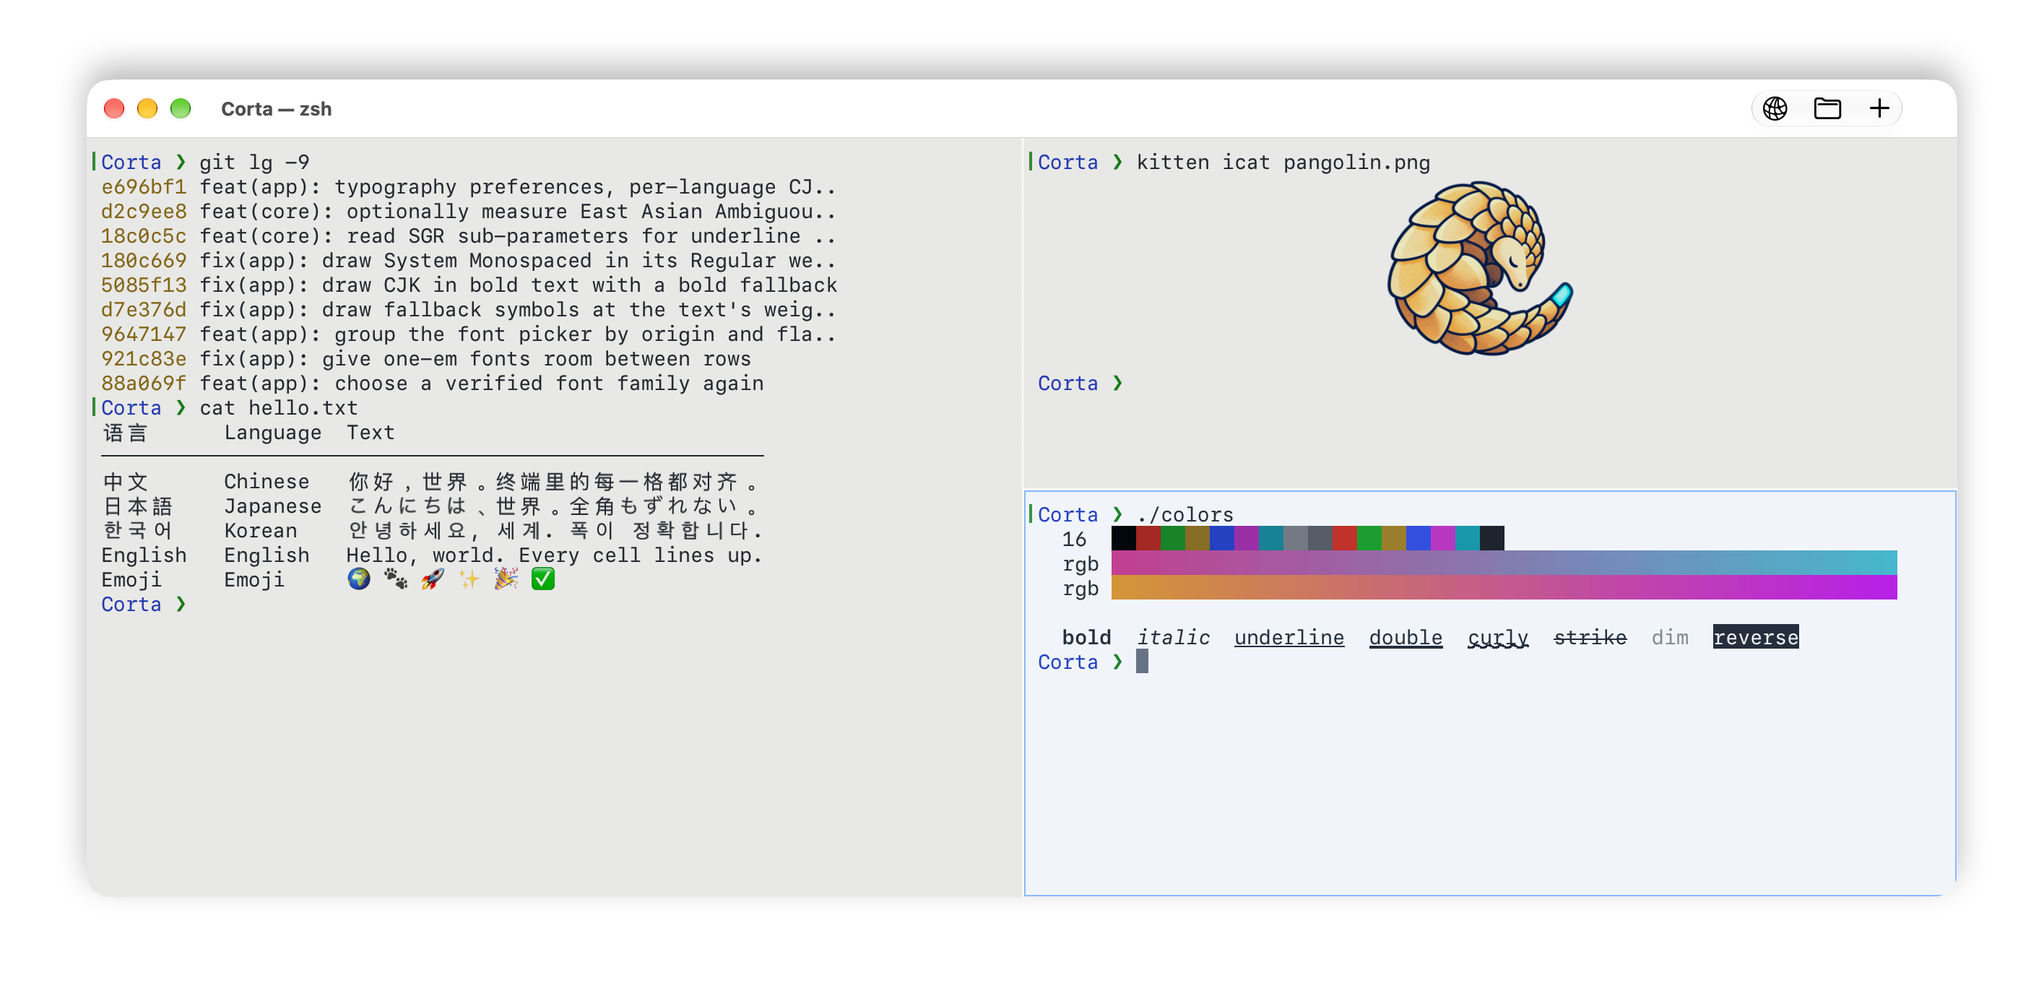
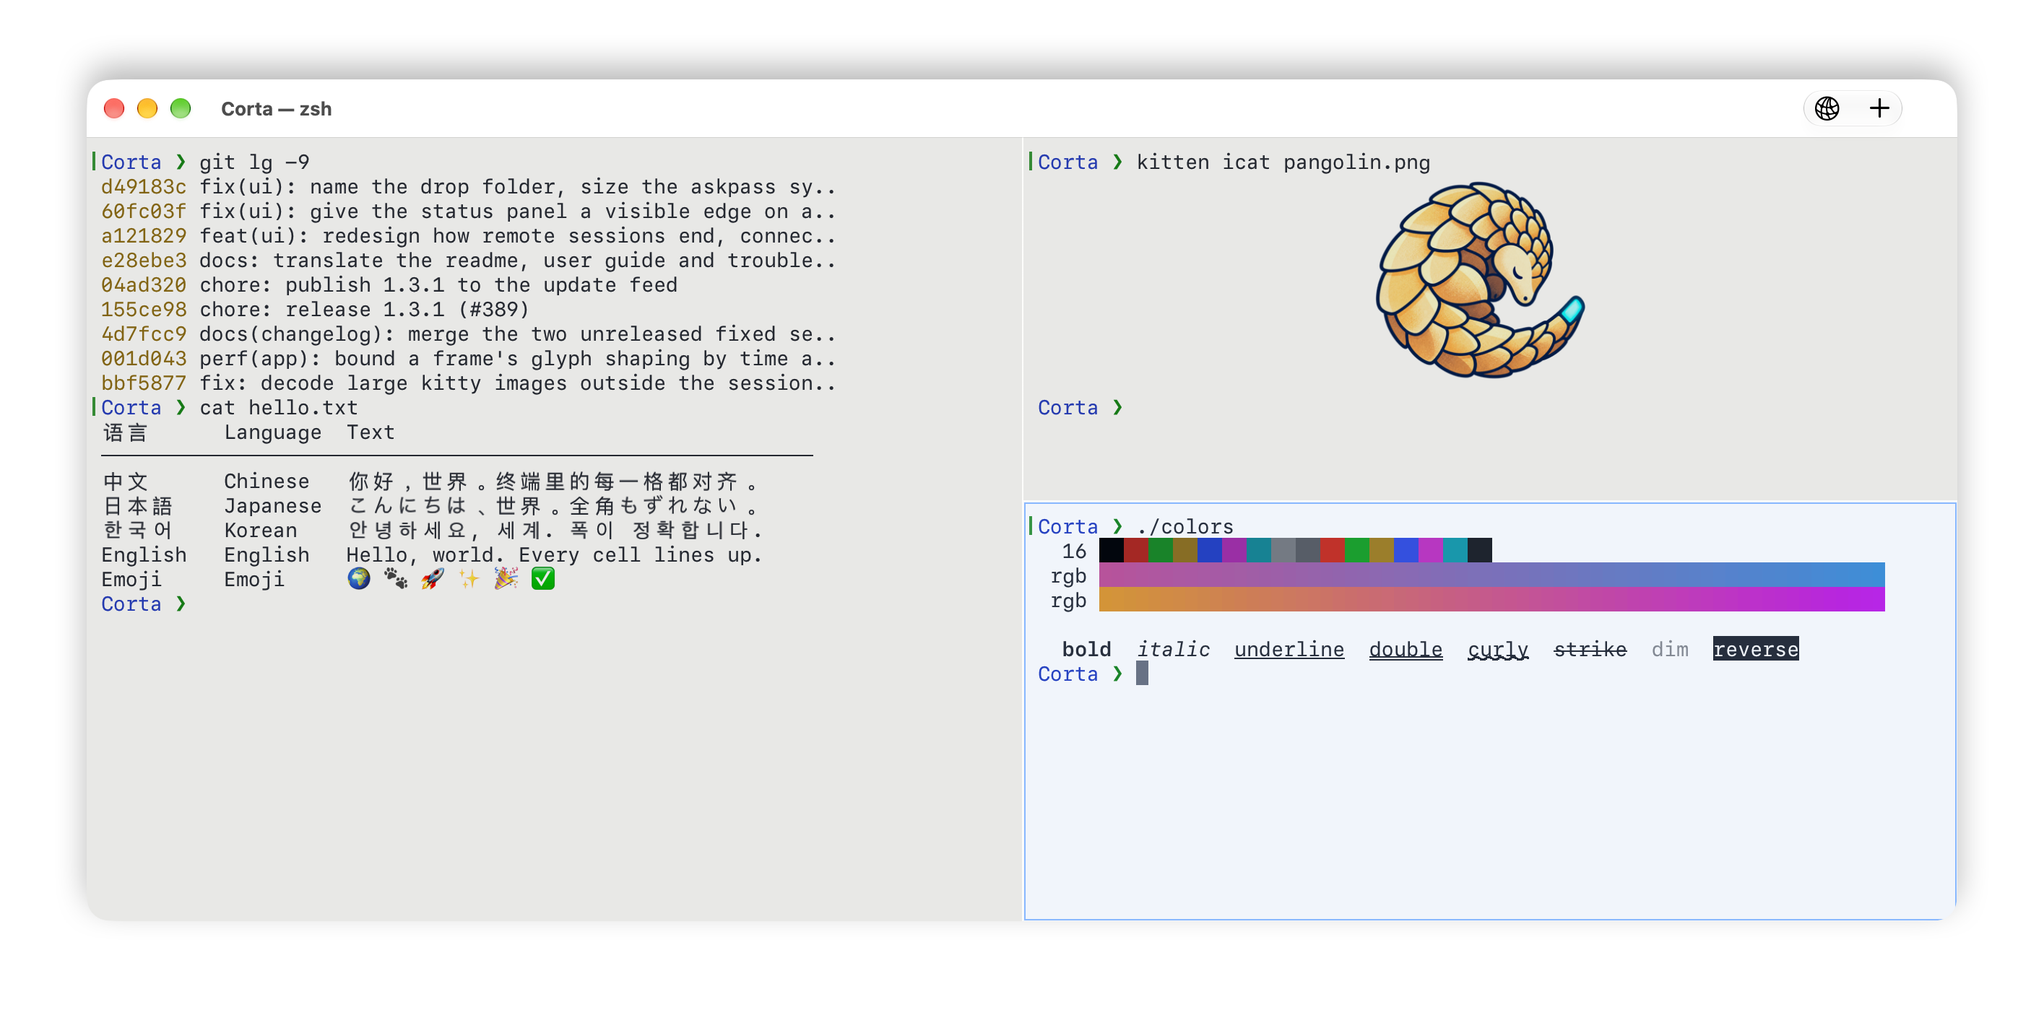
fix(ui): address review findings and retake the toolbar screenshots
Return no longer reconnects a failed pane; a failed pane takes clicks so
keys never reach a terminal nobody reads; a refused key passphrase skips
the key instead of ending the connection; an empty host opens the pane's
files only in Files mode; the established-connection timer stops with
its pane; the details group keeps the button spacing; one cached date
formatter; `ssh -l user` names the user; the unnamed-program title is
localized. The README, directory-suggestion and input-source images no
longer show the removed Files button.

diff --git a/Corta/Remote/SSHAskpassPrompter.swift b/Corta/Remote/SSHAskpassPrompter.swift
@@ -26,6 +26,8 @@ enum SSHAskpassPrompter {
     /// Posted with the host (`SSHTarget.displayName`) when a password is
     /// refused: the broker ends that connection's ssh, and a window waiting
     /// on it goes back to its host field rather than reporting a failure.
+    /// Two windows to the same place with different keys share the name and
+    /// both go back — rare, and Connect is one click away.
     static let refusedNotification = Notification.Name("CortaSSHAskpassRefused")
 
     /// Nil is a refusal. Task cancellation — ssh no longer waiting — takes
@@ -33,9 +35,14 @@ enum SSHAskpassPrompter {
     static func ask(_ question: SSHAskpass.Question, host: String, prompt: String) async -> String? {
         // With every window closed — a remote-edit save reconnecting — the
         // question gets a window of its own rather than a silent refusal.
+        let endsConnection = question == .secret && SSHAskpass.refusalEndsConnection(kind: .secret, prompt: prompt)
         let found = window(for: host)
         let standalone = found == nil ? makeStandaloneWindow() : nil
-        guard let window = found ?? standalone else { return nil }
+        guard let window = found ?? standalone else {
+            // Refused unasked: the broker still ends the connection.
+            if endsConnection { NotificationCenter.default.post(name: refusedNotification, object: host) }
+            return nil
+        }
         defer { standalone?.close() }
         // In the background the sheet is out of sight: bounce until the
         // user comes, and stop once the question is gone.
@@ -44,7 +51,7 @@ enum SSHAskpassPrompter {
         let alert = makeAlert(question, host: host, prompt: prompt)
         let field = alert.accessoryView as? NSSecureTextField
         let answer = await answer(alert, field: field, question: question, on: window)
-        if question == .secret, answer == nil, !Task.isCancelled {
+        if endsConnection, answer == nil, !Task.isCancelled {
             NotificationCenter.default.post(name: refusedNotification, object: host)
         }
         return answer
@@ -123,8 +130,11 @@ enum SSHAskpassPrompter {
             alert.messageText = L10n.format("askpass.secret.title", host)
             alert.informativeText = "“\(prompt)” · " + L10n.text("askpass.source.short")
             alert.addButton(withTitle: L10n.text("askpass.continue"))
-            // Cancel ends the connection (the broker), so it says so.
-            alert.addButton(withTitle: L10n.text("askpass.cancelConnection"))
+            // Cancel ends the connection (the broker), so it says so; for a
+            // key's passphrase it only skips that key.
+            alert.addButton(withTitle: L10n.text(
+                SSHAskpass.refusalEndsConnection(kind: .secret, prompt: prompt)
+                    ? "askpass.cancelConnection" : "common.cancel"))
             let field = NSSecureTextField(frame: NSRect(x: 0, y: 0, width: 280, height: 24))
             field.placeholderString = placeholder(for: prompt)
             field.setAccessibilityIdentifier("askpass-answer")

diff --git a/Corta/Pane/PaneRemote.swift b/Corta/Pane/PaneRemote.swift
@@ -158,10 +158,12 @@ final class PaneRemote: NSObject, NSMenuItemValidation {
     }
 
     /// ssh's destination: the first word that is neither an option nor an
-    /// option's value (`ssh(1)`'s synopsis), `ssh://` and a port stripped.
+    /// option's value (`ssh(1)`'s synopsis), `ssh://` and a port stripped, and
+    /// `-l`'s user put in front when it names none of its own.
     nonisolated static func sshDestination(_ arguments: [String]) -> String? {
         // The options that take a value, as one letter each.
         let valued = Set("BbcDEeFIiJLlmOoPpQRSWw")
+        var user: String?
         var index = arguments.startIndex
         while index < arguments.endIndex {
             let word = arguments[index]
@@ -174,7 +176,11 @@ final class PaneRemote: NSObject, NSMenuItemValidation {
             let letters = word.dropFirst()
             if let at = letters.firstIndex(where: { valued.contains($0) }) {
                 // `-p22`: the value is attached; `-p 22`: it is the next word.
-                if letters.index(after: at) == letters.endIndex { index += 1 }
+                let attached = String(letters[letters.index(after: at)...])
+                if attached.isEmpty { index += 1 }
+                if letters[at] == "l" {
+                    user = attached.isEmpty ? (index < arguments.endIndex ? arguments[index] : nil) : attached
+                }
             }
             index += 1
         }
@@ -187,7 +193,9 @@ final class PaneRemote: NSObject, NSMenuItemValidation {
                 destination = String(destination[..<colon])
             }
         }
-        return destination.isEmpty ? nil : destination
+        guard !destination.isEmpty else { return nil }
+        if let user, !destination.contains("@") { destination = "\(user)@\(destination)" }
+        return destination
     }
 
     private var establishedWatch: Timer?
@@ -202,7 +210,12 @@ final class PaneRemote: NSObject, NSMenuItemValidation {
         establishedWatch?.invalidate()
         establishedWatch = nil
         guard let target = host?.preset?.connectTarget, let session = host?.session else { return }
-        establishedWatch = Timer.scheduledTimer(withTimeInterval: 1, repeats: true) { [weak self, weak session] _ in
+        establishedWatch = Timer.scheduledTimer(withTimeInterval: 1, repeats: true) { [weak self, weak session] timer in
+            // A pane freed without a teardown leaves no one to stop it.
+            guard self != nil else {
+                timer.invalidate()
+                return
+            }
             MainActor.assumeIsolated { self?.checkEstablished(session, target: target) }
         }
     }

diff --git a/Corta/Remote/SSHAskpass.swift b/Corta/Remote/SSHAskpass.swift
@@ -94,6 +94,13 @@ nonisolated enum SSHAskpass {
         }
     }
 
+    /// Whether refusing this question ends the connection: a password or a
+    /// server's one-time code does. A key's passphrase does not — refused, ssh
+    /// skips that key and goes on to the next, a password among them.
+    static func refusalEndsConnection(kind: Kind, prompt: String) -> Bool {
+        question(kind: kind, prompt: prompt) == .secret && !prompt.lowercased().contains("passphrase")
+    }
+
     /// A prompt as a dialog may show it. Keyboard-interactive prompts are
     /// the server's text: controls and concealing scalars become U+FFFD
     /// (as SFTP names do), and it is bounded in characters and lines.
@@ -495,7 +502,8 @@ nonisolated final class SSHAskpassBroker: @unchecked Sendable {
     /// `NumberOfPasswordPrompts` times, and again for keyboard-interactive.
     /// So the ssh the question came from is ended, if it is still the very
     /// process that was admitted. A refused host key or confirmation needs
-    /// nothing: ssh stops on its own.
+    /// nothing: ssh stops on its own; a refused passphrase skips its key
+    /// (`SSHAskpass.refusalEndsConnection`).
     private func serve(_ request: SSHAskpass.Request, grant: Grant, ssh: pid_t, on client: Client) {
         let question = SSHAskpass.question(kind: request.kind, prompt: request.prompt)
         let prompt = SSHAskpass.displayPrompt(request.prompt)
@@ -509,6 +517,7 @@ nonisolated final class SSHAskpassBroker: @unchecked Sendable {
         // dropped. Everything touching the descriptor runs on its queue.
         client.watchHangup { task.cancel() }
         let terminate = self.terminate
+        let refusalEnds = SSHAskpass.refusalEndsConnection(kind: request.kind, prompt: request.prompt)
         Task.detached {
             let answer = await task.value
             client.queue.async {
@@ -518,7 +527,7 @@ nonisolated final class SSHAskpassBroker: @unchecked Sendable {
                     client.write(encoded)
                 }
                 client.close()
-                if !task.isCancelled, question == .secret, answer == nil, grant.admits(ssh) {
+                if !task.isCancelled, refusalEnds, answer == nil, grant.admits(ssh) {
                     terminate(ssh)
                 }
             }

diff --git a/Corta/Remote/RemoteConnectController.swift b/Corta/Remote/RemoteConnectController.swift
@@ -120,7 +120,7 @@ final class RemoteConnectController: NSWindowController {
     /// Validated here, at the boundary: a problem keeps the dialog open and
     /// is what it shows. Nil once the dialog may close.
     private func connect(mode: RemoteConnectMode, fields: SSHTargetFields) -> SSHTarget.Problem? {
-        if fields.isEmpty, let paneFiles = draft.paneFiles {
+        if fields.isEmpty, mode == .sftp, let paneFiles = draft.paneFiles {
             close()
             paneFiles.open()
             return nil
@@ -296,8 +296,8 @@ struct RemoteConnectForm: View {
                 }
                 Button(L10n.text("sftp.host.connect"), action: onConnect)
                     .keyboardShortcut(.defaultAction)
-                    // Empty, Return opens the focused pane's host's files.
-                    .disabled(fields.isEmpty && paneFiles == nil)
+                    // Empty in Files, Return opens the focused pane's host's.
+                    .disabled(fields.isEmpty && !(paneFiles != nil && mode == .sftp))
             }
             .controlSize(.large)
         }
@@ -662,12 +662,17 @@ struct RemoteConnectForm: View {
         parts.append(target.identityFile.map { ($0 as NSString).lastPathComponent }
             ?? L10n.text("ui.connect.identityDefault"))
         if let lastUsed {
-            let formatter = RelativeDateTimeFormatter()
-            formatter.unitsStyle = .full
-            parts.append(formatter.localizedString(for: lastUsed, relativeTo: now))
+            parts.append(relativeTime.localizedString(for: lastUsed, relativeTo: now))
         }
         return parts.joined(separator: " · ")
     }
+
+    /// One for every row: the list is rebuilt on each keystroke.
+    private static let relativeTime: RelativeDateTimeFormatter = {
+        let formatter = RelativeDateTimeFormatter()
+        formatter.unitsStyle = .full
+        return formatter
+    }()
 
     private static let rowHeight: CGFloat = 36
     private static let headerHeight: CGFloat = 20

diff --git a/Corta/Pane/PaneFailureView.swift b/Corta/Pane/PaneFailureView.swift
@@ -21,6 +21,10 @@ import AppKit
 /// pane's `PaneStatusPanel`, over the window background before anything
 /// ran, or over the dimmed last output after. A sentence, not a crash, and
 /// only the actions that help: Settings… only where a setting is the cause.
+///
+/// No click reaches the pane under it — unlike the session-ended panel's
+/// dim: the terminal may still have a live child whose output is no longer
+/// read, and keys typed there would run unseen.
 @MainActor
 final class PaneFailureView: NSView {
     /// Build again (the shell reinstalled, the volume remounted).
@@ -76,9 +80,10 @@ final class PaneFailureView: NSView {
         overlay.present(in: self, placement: .center)
         // The rightmost button is the one the panel is about.
         primaryAction = panel.buttons.last
-        // Return activates it, so the panel answers the key a person presses
-        // without looking.
-        primaryAction?.keyEquivalent = "\r"
+        // Return activates Try Again or Settings, so the panel answers the
+        // key a person presses without looking. Never Reconnect: it clears
+        // the output and opens a connection, which a stray Return must not.
+        if canRetry || !canReconnect { primaryAction?.keyEquivalent = "\r" }
         setAccessibilityElement(true)
         setAccessibilityRole(.group)
         setAccessibilityLabel(panel.accessibilityLabel())
@@ -116,12 +121,5 @@ final class PaneFailureView: NSView {
                     .priority: NSAccessibilityPriorityLevel.high.rawValue,
                 ])
         }
-    }
-
-    /// Over the dimmed output, a click outside the panel goes to the
-    /// terminal, as the overlay's own rule says.
-    override func hitTest(_ point: NSPoint) -> NSView? {
-        let hit = super.hitTest(point)
-        return hit === self ? nil : hit
     }
 }

diff --git a/CortaTests/RemoteConnectionUITests.swift b/CortaTests/RemoteConnectionUITests.swift
@@ -32,7 +32,9 @@ struct SSHDestinationTests {
         #expect(PaneRemote.sshDestination(["-p", "2222", "deploy@box"]) == "deploy@box")
         #expect(PaneRemote.sshDestination(["-p2222", "-tt", "box", "uptime"]) == "box")
         #expect(PaneRemote.sshDestination(["-o", "ServerAliveInterval=30", "-i", "/k", "box"]) == "box")
-        #expect(PaneRemote.sshDestination(["-vA", "-l", "root", "--", "box"]) == "box")
+        #expect(PaneRemote.sshDestination(["-vA", "-l", "root", "--", "box"]) == "root@box")
+        #expect(PaneRemote.sshDestination(["-ldeploy", "box"]) == "deploy@box")
+        #expect(PaneRemote.sshDestination(["-l", "root", "admin@box"]) == "admin@box")
         #expect(PaneRemote.sshDestination(["ssh://deploy@box:2222"]) == "deploy@box")
         #expect(PaneRemote.sshDestination(["-p", "22"]) == nil)
         #expect(PaneRemote.sshDestination([]) == nil)
@@ -250,5 +252,12 @@ struct AskpassWordingTests {
         #expect(!alert.informativeText.contains(L10n.text("askpass.source")))
         #expect((alert.accessoryView as? NSSecureTextField)?.placeholderString
             == L10n.text("askpass.placeholder.password"))
+        // A passphrase's Cancel skips the key; it says only Cancel.
+        let passphrase = SSHAskpassPrompter.makeAlert(
+            .secret, host: "box", prompt: "Enter passphrase for key '/k':")
+        #expect(passphrase.buttons.last?.title == L10n.text("common.cancel"))
+        #expect(!SSHAskpass.refusalEndsConnection(kind: .secret, prompt: "Enter passphrase for key '/k':"))
+        #expect(SSHAskpass.refusalEndsConnection(kind: .secret, prompt: "Verification code:"))
+        #expect(!SSHAskpass.refusalEndsConnection(kind: .confirm, prompt: "Allow use of key?"))
     }
 }

diff --git a/CortaTests/RecoveryUITests.swift b/CortaTests/RecoveryUITests.swift
@@ -83,6 +83,32 @@ struct RecoveryUITests {
         #expect(runtime.primaryAction?.title == L10n.text("failure.button.reconnect"))
     }
 
+    /// Reconnect clears the output and opens a connection; a stray Return —
+    /// typed into another pane, or at the dimmed output — must not do that.
+    @Test func returnNeverReconnects() {
+        let lost = PaneFailureView(
+            title: "t", detail: "d", canRetry: false, canReconnect: true, showsSettings: false)
+        #expect(lost.primaryAction?.title == L10n.text("failure.button.reconnect"))
+        #expect(lost.primaryAction?.keyEquivalent == "")
+    }
+
+    /// Over a failed session the terminal may still have a live child whose
+    /// output nobody reads: a click must not make it the key view.
+    @Test func noClickReachesTheFailedPane() throws {
+        let window = NSWindow(contentRect: NSRect(x: 0, y: 0, width: 600, height: 400),
+            styleMask: [.titled], backing: .buffered, defer: false)
+        window.isReleasedWhenClosed = false
+        defer { window.close() }
+        let root = try #require(window.contentView)
+        let failure = PaneFailureView(
+            title: "t", detail: "d", canRetry: true, showsSettings: false, backdrop: .dim)
+        failure.present(in: root, takesFocus: false)
+        root.layoutSubtreeIfNeeded()
+        let corner = NSPoint(x: 4, y: 4)
+        let hit = root.hitTest(corner)
+        #expect(hit === failure)
+    }
+
     /// The raw reason is there, but behind Details, not in the sentence.
     @Test func theRawReasonIsBehindDetails() throws {
         let view = PaneFailureView(title: "t", detail: "d", canRetry: true, details: "read: Input/output error")

diff --git a/CortaTests/SSHAskpassTests.swift b/CortaTests/SSHAskpassTests.swift
@@ -200,6 +200,23 @@ struct SSHAskpassBrokerTests {
         #expect(ended.withLock { $0 }.isEmpty)
     }
 
+    /// Refused, a key's passphrase makes ssh skip that key and go on — to a
+    /// password, say. Ending the connection there would take that away.
+    @Test func aRefusedPassphraseEndsNothing() async throws {
+        let recorder = Recorder(answer: nil)
+        let ended = Mutex<[pid_t]>([])
+        let broker = SSHAskpassBroker(
+            executable: Self.executable, prompter: recorder.prompter,
+            terminate: { pid in ended.withLock { $0.append(pid) } })
+        defer { broker.stop() }
+        let grant = try #require(broker.grant(host: "box"))
+        grant.admit(getpid())
+        let result = await finish(try run(grant, prompt: "Enter passphrase for key '/Users/me/.ssh/id_ed25519': "))
+        #expect(result.status == 1)
+        try await Task.sleep(for: .milliseconds(200))
+        #expect(ended.withLock { $0 }.isEmpty)
+    }
+
     /// The default never signals Corta itself, whatever pid it is handed.
     @Test func endingAConnectionNeverEndsCorta() {
         SSHAskpassBroker.terminateConnection(getpid())

diff --git a/Corta/Pane/PaneStatusPanel.swift b/Corta/Pane/PaneStatusPanel.swift
@@ -86,9 +86,14 @@ final class PaneStatusPanel: NSView {
             views.append(Self.wrapping(note, size: 11, color: .tertiaryLabelColor))
         }
         if let details = content.details, !details.isEmpty {
+            // One arranged view: the box starts hidden, and a hidden view's
+            // custom spacing is dropped with it.
             let (toggle, box) = makeDetails(details)
-            views.append(toggle)
-            views.append(box)
+            let group = NSStackView(views: [toggle, box])
+            group.orientation = .vertical
+            group.alignment = .centerX
+            group.spacing = 6
+            views.append(group)
         }
         let row = NSStackView()
         row.orientation = .horizontal

diff --git a/Corta/Pane/ViewController.swift b/Corta/Pane/ViewController.swift
@@ -786,7 +786,8 @@ class ViewController: NSViewController, PaneSearchHost, PaneRemoteHost, PaneComm
         let isConnection =
             launchedCommand.map { PaneRemoteState.isRemoteLauncher(executable: $0.executable) }
             ?? false
-        let program = launchedCommand.map { ($0.executable as NSString).lastPathComponent } ?? "shell"
+        let program = launchedCommand.map { ($0.executable as NSString).lastPathComponent }
+            ?? L10n.text("session.ended.local.unnamed")
         sessionEnd.present(
             exit, isConnection: isConnection, remoteHost: isConnection ? remote.connectionHost : nil,
             program: program)

diff --git a/docs/FEATURES.md b/docs/FEATURES.md
@@ -98,7 +98,8 @@ Rendering measurements and their conditions are in [Performance](PERFORMANCE.md)
   remote pane it offers that host's files first. A pane opened from it names
   that destination in its title until the remote shell reports its own.
 - A session that ends, a connection that drops and a pane that fails show
-  one panel over the dimmed, still-selectable output: what ended, how, the
+  one panel over the dimmed, still-readable output (selectable once the
+  session has ended): what ended, how, the
   raw reason under Details, and Reconnect, New Session or Try Again — which
   start at the pane's size and font size.
 - An SFTP browser for listing, transferring, renaming and deleting remote files
@@ -110,7 +111,7 @@ Rendering measurements and their conditions are in [Performance](PERFORMANCE.md)
   confirmation; a remote report alone cannot open it. Passwords, key
   passphrases, one-time codes and new host keys are asked in a dialog
   through OpenSSH's `SSH_ASKPASS` and never saved; cancelling a password
-  ends the connection attempt. A failed connection says why in a sentence,
+  ends the connection attempt, cancelling a key's passphrase skips the key. A failed connection says why in a sentence,
   ssh's diagnostics under Details.
 - Optional OSC 52 clipboard writes, disabled by default. Clipboard reads from
   terminal output are not implemented.

diff --git a/CHANGELOG.md b/CHANGELOG.md
@@ -22,7 +22,8 @@ Versioning for compatibility changes.
 
 - A pane whose session ended, whose connection dropped or that stopped
   working now shows one panel over its dimmed output, which stays
-  readable and selectable: what ended and how in a sentence — a dropped
+  readable — and, once the session has ended, selectable: what ended and
+  how in a sentence — a dropped
   ssh connection names its host and explains exit code 255 — with the
   raw reason under **Details**. **Reconnect** and **New Session** start at
   once; the panel says the output is cleared, instead of asking again.
@@ -44,6 +45,7 @@ Versioning for compatibility changes.
 - Cancelling an SFTP password prompt no longer opens it again. OpenSSH
   read the cancelled prompt as an empty password, tried it and asked again,
   up to three times or more; Cancel now ends that connection attempt.
+  Cancelling a key's passphrase still only skips that key.
 - Dropping files from Finder on the SFTP browser uploads them again — into
   the folder shown, or the folder row they land on. The drop never reached
   the listing.
